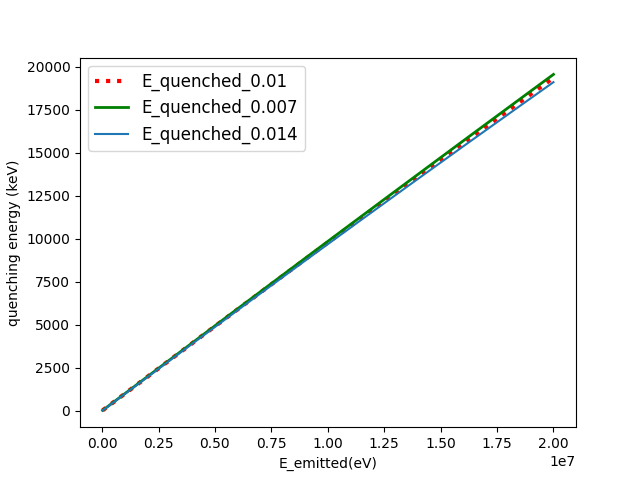
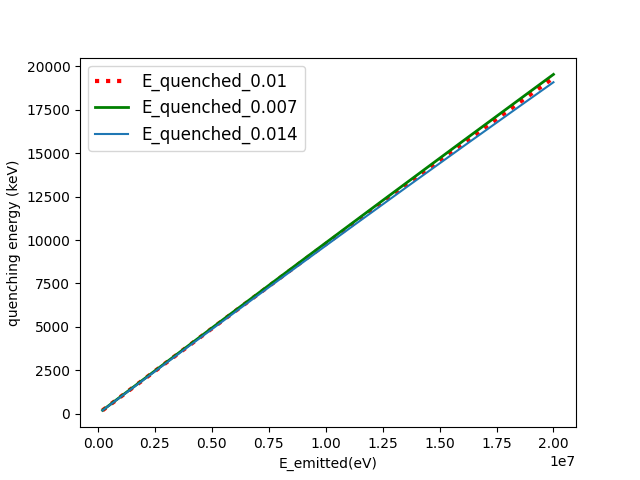
test

diff --git a/MCTDCRcode/TDCR_model_lib.py b/MCTDCRcode/TDCR_model_lib.py
@@ -300,7 +300,7 @@ def readBetaShape(rad,mode,trans):
 
 
 def E_quench_e(e,kB): # e : eV
-    e_dis = np.linspace(0,e,500)
+    e_dis = np.linspace(0,e,1000)
     delta = e_dis[2] - e_dis[1]
     q = 0
     for i in e_dis:
@@ -310,7 +310,7 @@ def E_quench_e(e,kB): # e : eV
 s1 = []
 s2 = []
 s3 = []
-x = np.linspace(2e4,2e7,20000) 
+x = np.linspace(2e5,2e7,2000) 
 
 for i in x:
     s1.append(E_quench_e(i,kB=0.007)*1e-3)
